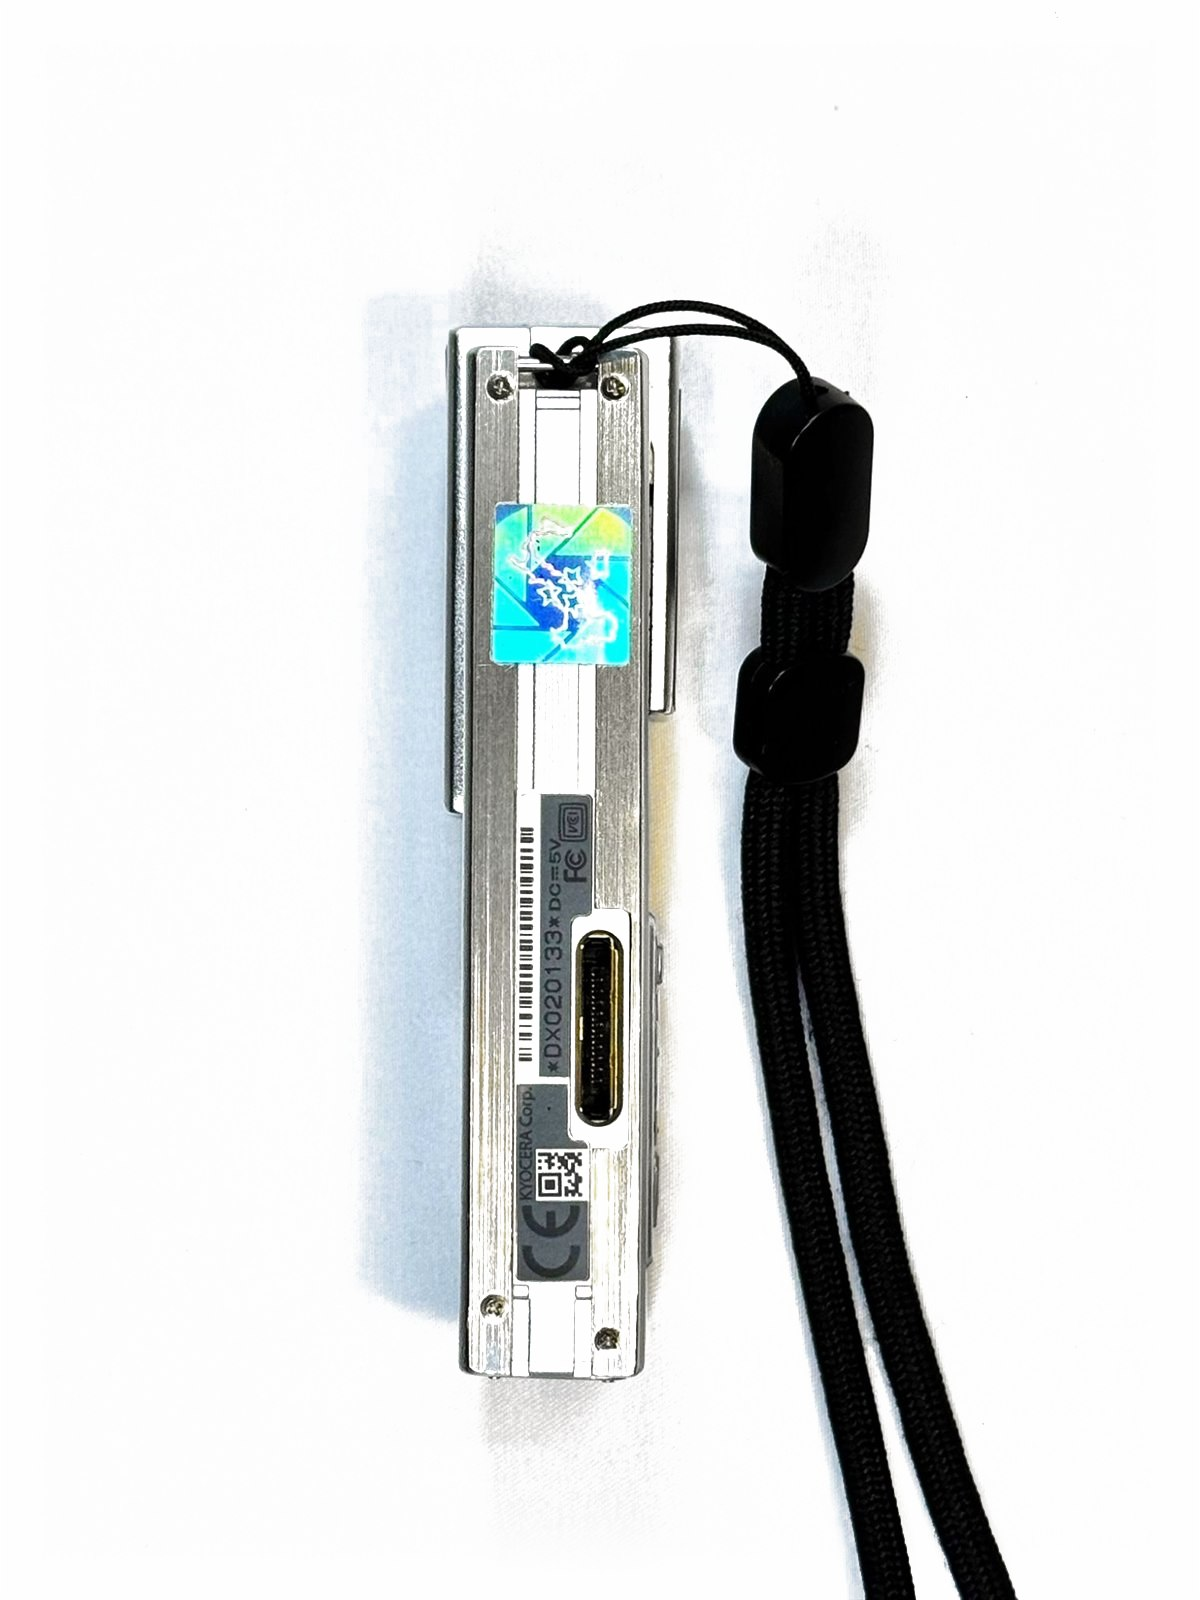
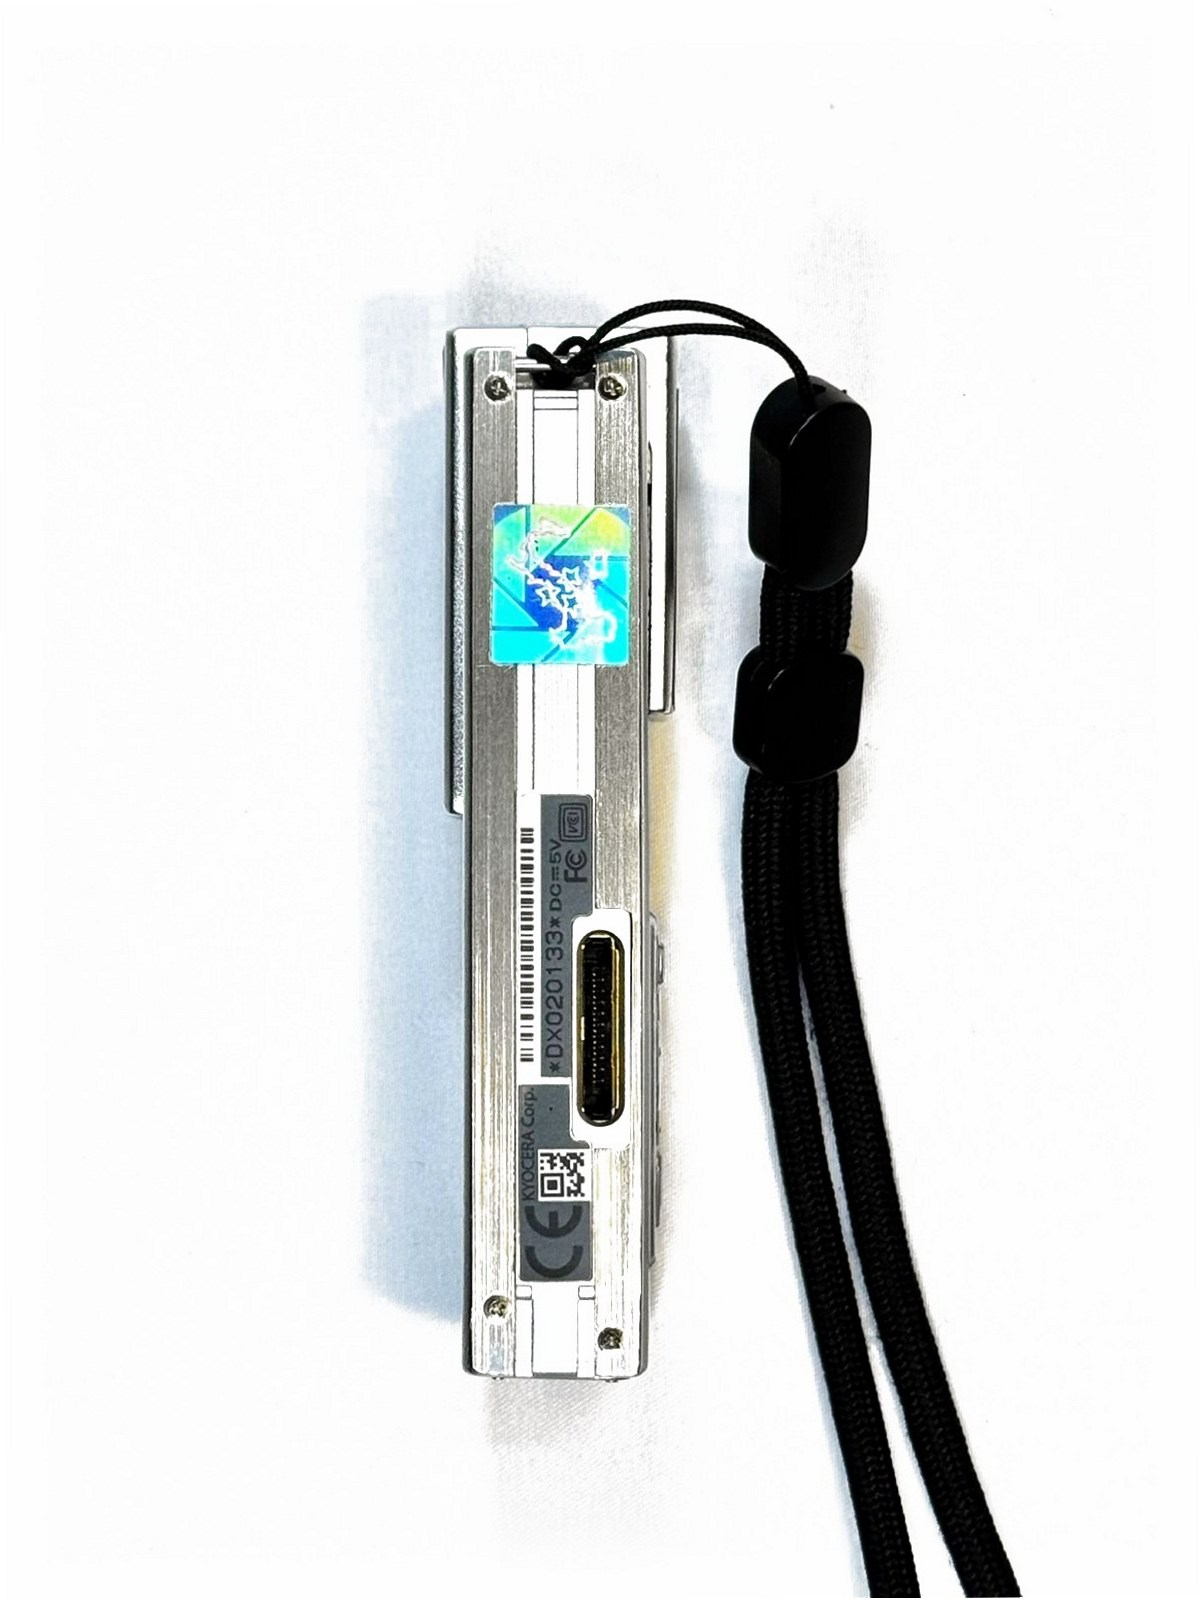
Straighten and recentre listing photos; drop years from footer
- DSC-T2: level and centre the back and screen-on photos
- Contax i4R: level screen-on, front-closed, back, side, underside
- CCD-TRV218E, CCD-TRV140E, Coolpix 3500: adjust card crops
- Footer tagline no longer says 1990-2012; cache tag 20261121o

diff --git a/index.html b/index.html
@@ -10,10 +10,10 @@
 <meta property="og:type" content="website"><meta property="og:title" content="Ionic Archive — Shop our cameras"><meta property="og:description" content="Camcorders and digital cameras from 1990–2012, tested piece by piece. A mystery minifigure in every order."><meta property="og:image" content="https://ionicarchive.com/og.jpg">
 <link rel="preconnect" href="https://fonts.googleapis.com"><link rel="preconnect" href="https://fonts.gstatic.com" crossorigin>
 <link href="https://fonts.googleapis.com/css2?family=Geist:wght@300..700&family=Geist+Mono:wght@400;500&family=VT323&family=Permanent+Marker&display=swap" rel="stylesheet">
-<link rel="stylesheet" href="assets/css/style.css?v=20261121n">
+<link rel="stylesheet" href="assets/css/style.css?v=20261121o">
 <script>document.documentElement.classList.add('js')</script>
 <script type="application/ld+json">{"@context":"https://schema.org","@type":"Organization","name":"Ionic Archive","url":"https://ionicarchive.com","sameAs":["https://www.instagram.com/ionic.archive"]}</script>
-<script defer src="assets/js/data.js?v=20261121n"></script><script defer src="assets/js/art.js?v=20261121n"></script><script defer src="assets/js/main.js?v=20261121n"></script><script defer src="assets/js/home.js?v=20261121n"></script><script defer src="assets/js/tv.js?v=20261121n"></script><script defer src="assets/js/fig3d.js?v=20261121n"></script>
+<script defer src="assets/js/data.js?v=20261121o"></script><script defer src="assets/js/art.js?v=20261121o"></script><script defer src="assets/js/main.js?v=20261121o"></script><script defer src="assets/js/home.js?v=20261121o"></script><script defer src="assets/js/tv.js?v=20261121o"></script><script defer src="assets/js/fig3d.js?v=20261121o"></script>
 </head>
 <body data-page="home">
 <div class="lcd" aria-hidden="true"><i class="lcd__t"></i><i class="lcd__b"></i><i class="lcd__line"></i></div>

diff --git a/dropouts.html b/dropouts.html
@@ -9,9 +9,9 @@
 <link rel="canonical" href="https://ionicarchive.com/dropouts">
 <link rel="preconnect" href="https://fonts.googleapis.com"><link rel="preconnect" href="https://fonts.gstatic.com" crossorigin>
 <link href="https://fonts.googleapis.com/css2?family=Geist:wght@300..700&family=Geist+Mono:wght@400;500&display=swap" rel="stylesheet">
-<link rel="stylesheet" href="assets/css/style.css?v=20261121n">
+<link rel="stylesheet" href="assets/css/style.css?v=20261121o">
 <script>document.documentElement.classList.add('js')</script>
-<script defer src="assets/js/data.js?v=20261121n"></script><script defer src="assets/js/art.js?v=20261121n"></script><script defer src="assets/js/main.js?v=20261121n"></script><script defer src="assets/js/figures.js?v=20261121n"></script><script defer src="assets/js/fig3d.js?v=20261121n"></script>
+<script defer src="assets/js/data.js?v=20261121o"></script><script defer src="assets/js/art.js?v=20261121o"></script><script defer src="assets/js/main.js?v=20261121o"></script><script defer src="assets/js/figures.js?v=20261121o"></script><script defer src="assets/js/fig3d.js?v=20261121o"></script>
 </head>
 <body data-page="dropouts" class="night-hdr" style="background:var(--night)">
 <div class="lcd" aria-hidden="true"><i class="lcd__t"></i><i class="lcd__b"></i><i class="lcd__line"></i></div>

diff --git a/product.html b/product.html
@@ -8,9 +8,9 @@
 <meta name="theme-color" content="#F4F2ED">
 <link rel="preconnect" href="https://fonts.googleapis.com"><link rel="preconnect" href="https://fonts.gstatic.com" crossorigin>
 <link href="https://fonts.googleapis.com/css2?family=Geist:wght@300..700&family=Geist+Mono:wght@400;500&display=swap" rel="stylesheet">
-<link rel="stylesheet" href="assets/css/style.css?v=20261121n">
+<link rel="stylesheet" href="assets/css/style.css?v=20261121o">
 <script>document.documentElement.classList.add('js')</script>
-<script defer src="assets/js/data.js?v=20261121n"></script><script defer src="assets/js/art.js?v=20261121n"></script><script defer src="assets/js/main.js?v=20261121n"></script><script defer src="assets/js/product.js?v=20261121n"></script><script defer src="assets/js/fig3d.js?v=20261121n"></script>
+<script defer src="assets/js/data.js?v=20261121o"></script><script defer src="assets/js/art.js?v=20261121o"></script><script defer src="assets/js/main.js?v=20261121o"></script><script defer src="assets/js/product.js?v=20261121o"></script><script defer src="assets/js/fig3d.js?v=20261121o"></script>
 </head>
 <body data-page="archive">
 <div class="lcd" aria-hidden="true"><i class="lcd__t"></i><i class="lcd__b"></i><i class="lcd__line"></i></div>

diff --git a/journal.html b/journal.html
@@ -8,9 +8,9 @@
 <link rel="canonical" href="https://ionicarchive.com/journal">
 <link rel="preconnect" href="https://fonts.googleapis.com"><link rel="preconnect" href="https://fonts.gstatic.com" crossorigin>
 <link href="https://fonts.googleapis.com/css2?family=Geist:wght@300..700&family=Geist+Mono:wght@400;500&family=Permanent+Marker&display=swap" rel="stylesheet">
-<link rel="stylesheet" href="assets/css/style.css?v=20261121n">
+<link rel="stylesheet" href="assets/css/style.css?v=20261121o">
 <script>document.documentElement.classList.add('js')</script>
-<script defer src="assets/js/data.js?v=20261121n"></script><script defer src="assets/js/art.js?v=20261121n"></script><script defer src="assets/js/main.js?v=20261121n"></script><script defer src="assets/js/journal.js?v=20261121n"></script>
+<script defer src="assets/js/data.js?v=20261121o"></script><script defer src="assets/js/art.js?v=20261121o"></script><script defer src="assets/js/main.js?v=20261121o"></script><script defer src="assets/js/journal.js?v=20261121o"></script>
 </head>
 <body data-page="journal" class="night-hdr jr-page" style="background:var(--night)">
 <div class="lcd" aria-hidden="true"><i class="lcd__t"></i><i class="lcd__b"></i><i class="lcd__line"></i></div>

diff --git a/manifesto.html b/manifesto.html
@@ -9,9 +9,9 @@
 <link rel="canonical" href="https://ionicarchive.com/manifesto">
 <link rel="preconnect" href="https://fonts.googleapis.com"><link rel="preconnect" href="https://fonts.gstatic.com" crossorigin>
 <link href="https://fonts.googleapis.com/css2?family=Geist:wght@300..700&family=Geist+Mono:wght@400;500&display=swap" rel="stylesheet">
-<link rel="stylesheet" href="assets/css/style.css?v=20261121n">
+<link rel="stylesheet" href="assets/css/style.css?v=20261121o">
 <script>document.documentElement.classList.add('js')</script>
-<script defer src="assets/js/data.js?v=20261121n"></script><script defer src="assets/js/art.js?v=20261121n"></script><script defer src="assets/js/main.js?v=20261121n"></script><script defer src="assets/js/manifesto.js?v=20261121n"></script>
+<script defer src="assets/js/data.js?v=20261121o"></script><script defer src="assets/js/art.js?v=20261121o"></script><script defer src="assets/js/main.js?v=20261121o"></script><script defer src="assets/js/manifesto.js?v=20261121o"></script>
 </head>
 <body data-page="manifesto" class="night-hdr" style="background:var(--night)">
 <div class="lcd" aria-hidden="true"><i class="lcd__t"></i><i class="lcd__b"></i><i class="lcd__line"></i></div>

diff --git a/archive.html b/archive.html
@@ -9,9 +9,9 @@
 <link rel="canonical" href="https://ionicarchive.com/archive">
 <link rel="preconnect" href="https://fonts.googleapis.com"><link rel="preconnect" href="https://fonts.gstatic.com" crossorigin>
 <link href="https://fonts.googleapis.com/css2?family=Geist:wght@300..700&family=Geist+Mono:wght@400;500&display=swap" rel="stylesheet">
-<link rel="stylesheet" href="assets/css/style.css?v=20261121n">
+<link rel="stylesheet" href="assets/css/style.css?v=20261121o">
 <script>document.documentElement.classList.add('js')</script>
-<script defer src="assets/js/data.js?v=20261121n"></script><script defer src="assets/js/art.js?v=20261121n"></script><script defer src="assets/js/main.js?v=20261121n"></script><script defer src="assets/js/archive.js?v=20261121n"></script>
+<script defer src="assets/js/data.js?v=20261121o"></script><script defer src="assets/js/art.js?v=20261121o"></script><script defer src="assets/js/main.js?v=20261121o"></script><script defer src="assets/js/archive.js?v=20261121o"></script>
 </head>
 <body data-page="archive">
 <div class="lcd" aria-hidden="true"><i class="lcd__t"></i><i class="lcd__b"></i><i class="lcd__line"></i></div>

diff --git a/support.html b/support.html
@@ -8,9 +8,9 @@
 <link rel="canonical" href="https://ionicarchive.com/support">
 <link rel="preconnect" href="https://fonts.googleapis.com"><link rel="preconnect" href="https://fonts.gstatic.com" crossorigin>
 <link href="https://fonts.googleapis.com/css2?family=Geist:wght@300..700&family=Geist+Mono:wght@400;500&display=swap" rel="stylesheet">
-<link rel="stylesheet" href="assets/css/style.css?v=20261121n">
+<link rel="stylesheet" href="assets/css/style.css?v=20261121o">
 <script>document.documentElement.classList.add('js')</script>
-<script defer src="assets/js/data.js?v=20261121n"></script><script defer src="assets/js/art.js?v=20261121n"></script><script defer src="assets/js/main.js?v=20261121n"></script>
+<script defer src="assets/js/data.js?v=20261121o"></script><script defer src="assets/js/art.js?v=20261121o"></script><script defer src="assets/js/main.js?v=20261121o"></script>
 </head>
 <body data-page="support">
 <div class="lcd" aria-hidden="true"><i class="lcd__t"></i><i class="lcd__b"></i><i class="lcd__line"></i></div>

diff --git a/legal.html b/legal.html
@@ -8,9 +8,9 @@
 <link rel="canonical" href="https://ionicarchive.com/legal">
 <link rel="preconnect" href="https://fonts.googleapis.com"><link rel="preconnect" href="https://fonts.gstatic.com" crossorigin>
 <link href="https://fonts.googleapis.com/css2?family=Geist:wght@300..700&family=Geist+Mono:wght@400;500&display=swap" rel="stylesheet">
-<link rel="stylesheet" href="assets/css/style.css?v=20261121n">
+<link rel="stylesheet" href="assets/css/style.css?v=20261121o">
 <script>document.documentElement.classList.add('js')</script>
-<script defer src="assets/js/data.js?v=20261121n"></script><script defer src="assets/js/art.js?v=20261121n"></script><script defer src="assets/js/main.js?v=20261121n"></script>
+<script defer src="assets/js/data.js?v=20261121o"></script><script defer src="assets/js/art.js?v=20261121o"></script><script defer src="assets/js/main.js?v=20261121o"></script>
 </head>
 <body data-page="support">
 <div class="lcd" aria-hidden="true"><i class="lcd__t"></i><i class="lcd__b"></i><i class="lcd__line"></i></div>

diff --git a/assets/js/main.js b/assets/js/main.js
@@ -65,7 +65,7 @@ ${LOGO('Ionic Archive, home')}
   const main = $('#main');
   main.insertAdjacentHTML('afterend', `<footer class="ftr"><div class="wrap">
 <div class="ftr__brand">${LOGO('Ionic Archive')}
-<p>Camcorders and digital cameras, 1990–2012.</p>
+<p>Camcorders and digital cameras.</p>
 <p class="ftr__shops">${D.shops ? `<a href="${D.shops.ebay}" target="_blank" rel="noopener">eBay shop ↗</a><a href="${D.shops.vinted}" target="_blank" rel="noopener">Vinted wardrobe ↗</a>` : ''}</p></div>
 <div class="ftr__grid">
 <div><h4>Archive</h4><ul><li><a href="archive.html?type=camcorders">Camcorders</a></li><li><a href="archive.html?type=compacts">Digital compacts</a></li><li><a href="archive.html?type=accessories">Tapes &amp; accessories</a></li><li><a href="archive.html">Archived pieces</a></li></ul></div>
